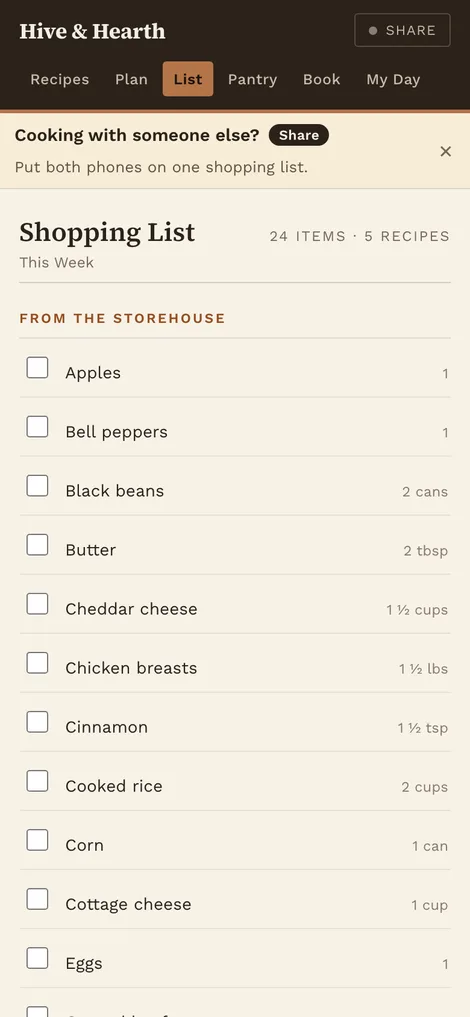
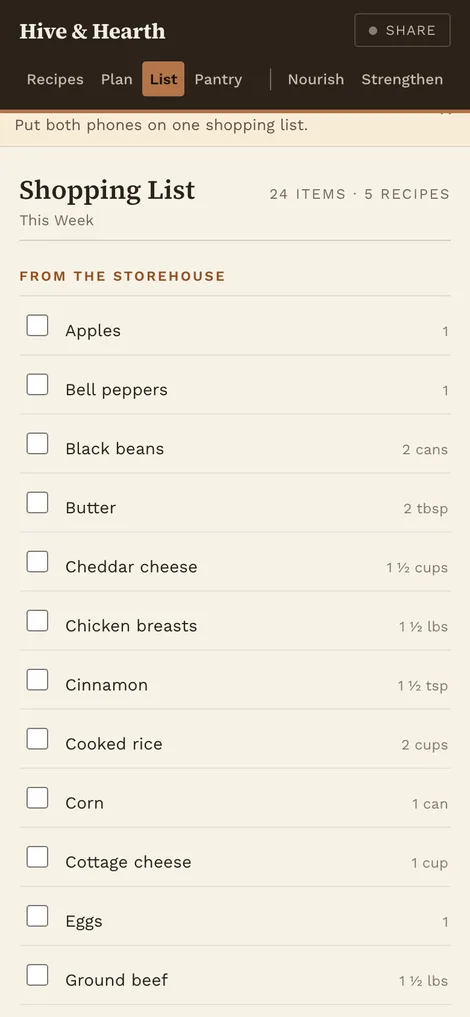
My Day: a recipe plate says what it weighs
Blake: "I loaded up my Cafe Rio pulled pork recipe and it showed for me
to eat a half a serving, but I had to click on the recipe, switch it to
grams and then open the calculator app on my phone to divide the meal
serving into grams for a half serving. Can you just show that on the main
food card?"

The weight that matters is the finished one, which only the cook can know
(pork loses about a third in the pot). So:

- Every recipe plate shows its weight on the figures row: an estimate
  from the raw ingredients, "~106 g" in a dashed box (mServeG: the eaten
  share of each line, divided by the servings).
- Tapping it opens a strip in the plate: "About 211 g a serving, from the
  raw ingredients. Weigh the finished batch once and this becomes exact."
  [Whole batch ___ g] makes 10 [Save].
- Saved, the box goes solid and exact (1,800 g for 10 = 90 g on a half),
  follows the portion as it changes, and says "Your batch: 1,800 g for 10
  servings, so 180 g each." with Weigh again.
- MBATCHG (bsc.macroBatchG, id -> { s: grams a serving, on }) syncs as
  simple part `bg`; in claimAll and the sign-out wipe.

Tests: the estimate matches the ingredient arithmetic and is marked; one
weigh-in makes the half-serving plate read 90 g, stored and in the payload
(red when the weighed value is ignored). Macros 856/0 and the other
thirteen suites 362/0 (the full run tripped the intermittent click timeout
once; macros re-ran clean).
[…]

diff --git a/src/app.js b/src/app.js
@@ -1171,7 +1171,7 @@
      only place that writes all of them at once. */
   function mClaimAll() {
     var now = Date.now();
-    ['t', 'pr', 'sl', 'mf', 'nv'].forEach(function (k) { MSTAMPS[k] = now; });
+    ['t', 'pr', 'sl', 'mf', 'nv', 'bg'].forEach(function (k) { MSTAMPS[k] = now; });
     [['d', MDAYS], ['dn', MDONE], ['sp', MSKIP], ['sn', MSEND], ['w', MWEIGHTS],
       ['tn', MTRAINED]].forEach(function (pair) {
       var part = pair[0];
@@ -1228,7 +1228,7 @@
     ['bsc.macroDays', 'bsc.macroWeights', 'bsc.myStamps', 'bsc.macroTargets',
       'bsc.macroProfile', 'bsc.macroSlots', 'bsc.myFoods', 'bsc.myOwner',
       'bsc.macroDone', 'bsc.macroSkip', 'bsc.macroSend', 'bsc.macroTrained',
-      'bsc.macroHush', 'bsc.macroIntake', 'bsc.macroDayT', 'bsc.macroNever'].forEach(function (k) {
+      'bsc.macroHush', 'bsc.macroIntake', 'bsc.macroDayT', 'bsc.macroNever', 'bsc.macroBatchG'].forEach(function (k) {
       try { localStorage.removeItem(k); } catch (e) { /* private mode */ }
     });
     Object.keys(MDAYS).forEach(function (k) { delete MDAYS[k]; });
@@ -1236,6 +1236,7 @@
     Object.keys(MINTAKE).forEach(function (k) { delete MINTAKE[k]; });
     Object.keys(MDAYT).forEach(function (k) { delete MDAYT[k]; });
     Object.keys(MNEVER).forEach(function (k) { delete MNEVER[k]; });
+    Object.keys(MBATCHG).forEach(function (k) { delete MBATCHG[k]; });
     Object.keys(MSTAMPS).forEach(function (k) { delete MSTAMPS[k]; });
     Object.keys(MDONE).forEach(function (k) { delete MDONE[k]; });
     Object.keys(MSKIP).forEach(function (k) { delete MSKIP[k]; });
@@ -1305,6 +1306,7 @@
   var MSYNC_SHAPE = {
     mf: mPlainObj,
     nv: mPlainObj,
+    bg: mPlainObj,
     t: function (v) { return mPlainObj(v) && mNum(v.p) && mNum(v.f) && mNum(v.c); },
     pr: mPlainObj,
     sl: function (v) { return mPlainObj(v) && Array.isArray(v.list); }
@@ -1312,7 +1314,7 @@
   function mSyncUnkey(e) { return String(e).replace(/_/g, '-'); }
 
   var MSYNC_SIMPLE = [
-    ['mf', 'bsc.myFoods'], ['t', 'bsc.macroTargets'], ['nv', 'bsc.macroNever'],
+    ['mf', 'bsc.myFoods'], ['t', 'bsc.macroTargets'], ['nv', 'bsc.macroNever'], ['bg', 'bsc.macroBatchG'],
     ['pr', 'bsc.macroProfile'], ['sl', 'bsc.macroSlots']
   ];
 
@@ -1493,6 +1495,13 @@
     });
     take('sl', 'bsc.macroSlots', function (v) {
       try { localStorage.setItem('bsc.macroSlots', JSON.stringify(v)); } catch (e) { /* private */ }
+    });
+    take('bg', 'bsc.macroBatchG', function (v) {
+      Object.keys(MBATCHG).forEach(function (k) { delete MBATCHG[k]; });
+      Object.keys(v).forEach(function (k) {
+        if (v[k] && v[k].s > 0) MBATCHG[k] = { s: Number(v[k].s), on: String(v[k].on || '') };
+      });
+      try { localStorage.setItem('bsc.macroBatchG', JSON.stringify(MBATCHG)); } catch (e) { /* private */ }
     });
     take('nv', 'bsc.macroNever', function (v) {
       Object.keys(MNEVER).forEach(function (k) { delete MNEVER[k]; });
@@ -2069,6 +2078,41 @@
     return {};
   })();
   function mNever(id) { return !!MNEVER[String(id)]; }
+
+  /* What one serving of a recipe weighs, finished. Blake, on the Cafe Rio
+     pork: the plate said half a serving and he had to open the recipe, switch
+     it to grams and do the division on his phone's calculator. The weight
+     that matters is the COOKED one, which only the cook can know — pork
+     loses about a third in the pot — so the plate shows an estimate from the
+     raw ingredients, marked "~", until the batch is weighed once. Then it is
+     exact for the way he makes it. Keyed recipe id -> { s: grams a serving,
+     on: day }. Synced as part `bg`. */
+  var MBATCHG = (function () {
+    try {
+      var v = JSON.parse(localStorage.getItem('bsc.macroBatchG'));
+      if (v && typeof v === 'object' && !Array.isArray(v)) return v;
+    } catch (e) { /* none yet */ }
+    return {};
+  })();
+  function mSetBatchG(id, perServing) {
+    var k = String(id);
+    if (perServing > 0) MBATCHG[k] = { s: Math.round(perServing * 10) / 10, on: todayKey() };
+    else delete MBATCHG[k];
+    mStamp('bg');
+    try { localStorage.setItem('bsc.macroBatchG', JSON.stringify(MBATCHG)); }
+    catch (e) { /* this session only */ }
+  }
+  /* { g: grams a serving, est: true when it is the ingredient estimate }, or
+     null when there is nothing to go on. The estimate counts what the recipe
+     says is eaten of each line (the dredge's third, the frying oil's share). */
+  function mServeG(r) {
+    if (!r || r.food) return null;
+    var w = MBATCHG[String(r.id)];
+    if (w && w.s > 0) return { g: w.s, est: false };
+    var tot = 0;
+    (r.ingp || []).forEach(function (x) { tot += (Number(x.g) || 0) * (x.pe > 0 ? x.pe : 1); });
+    return tot > 0 ? { g: tot / (r.servN || 1), est: true } : null;
+  }
   function mSetNever(id, on) {
     var k = String(id);
     if (on) MNEVER[k] = todayKey(); else delete MNEVER[k];
@@ -2196,6 +2240,26 @@
   }
   /* The strip the chip opens, inside the plate, in the green-edged style of
      the app's other in-meal cards. */
+  function mBatchStrip(r, it, tag) {
+    if (S.mBatchOpen !== tag) return '';
+    var sg = mServeG(r);
+    if (!sg) return '';
+    var n = r.servN || 1;
+    var fmt = function (g) { return Math.round(g).toLocaleString(); };
+    return '<div class="mwhy-strip mbatch-strip no-print">' +
+      (sg.est
+        ? '<p>About ' + fmt(sg.g) + ' g a serving, from the raw ingredients. Weigh the finished ' +
+          (n > 1 ? 'batch' : 'dish') + ' once and this becomes exact.</p>' +
+          '<span class="mbatch-in"><label>Whole batch <input type="text" inputmode="decimal" id="mBatchIn" ' +
+            'maxlength="6" autocomplete="off" aria-label="Finished batch weight in grams"> g</label>' +
+            '<span class="mbatch-n">makes ' + n + '</span>' +
+            '<button class="btn-primary" data-mbsave="' + tag + '">Save</button></span>'
+        : '<p>Your batch: ' + fmt(sg.g * n) + ' g for ' + n + (n === 1 ? ' serving' : ' servings') +
+          ', so ' + fmt(sg.g) + ' g each.</p>' +
+          '<span class="mwhy-acts"><button class="ghost" data-mbforget="' + tag + '">Weigh again</button></span>') +
+    '</div>';
+  }
+
   function mWhyStrip(it, tag) {
     var w = mWhyOf(it);
     if (!w || S.mWhyOpen !== tag) return '';
@@ -5176,6 +5240,7 @@
             '</span>' +
           '</div>' +
           mWhyStrip(it, tag) +
+          mBatchStrip(r, it, tag) +
           /* What it is in the kitchen, and what it costs you.
            *
              The weight leads, because Blake weighs: "sometimes it's just
@@ -5192,7 +5257,16 @@
              strip it opens sitting above, under the name. */
           '<div class="mitem-r2">' +
             mWhyChip(it, tag) +
-            (port.detail ? '<span class="mitem-uom">' + esc(port.detail) + '</span>' : '') +
+            (function () {
+              /* A recipe's plate says what it weighs: the thing you put on
+                 the scale. A tap weighs the batch or says how it was got. */
+              var sg = mServeG(r);
+              if (!sg) return port.detail ? '<span class="mitem-uom">' + esc(port.detail) + '</span>' : '';
+              return '<button class="mitem-uom mitem-bw' + (sg.est ? ' est' : '') + '" data-mbatch="' + tag +
+                '" aria-expanded="' + (S.mBatchOpen === tag ? 'true' : 'false') + '" aria-label="' +
+                (sg.est ? 'About ' : '') + Math.round(sg.g * it.x) + ' grams on this plate">' +
+                (sg.est ? '~' : '') + Math.round(sg.g * it.x) + ' g</button>';
+            })() +
             '<span class="mitem-mac">' + mMacLine(r, it.x) + '</span>' +
             mSaltChip(r, it.x) +
           '</div>' +
@@ -13738,7 +13812,7 @@
     'data-poff', 'data-week', 'data-neww', 'data-mult', 'data-drop', 'data-ed', 'data-tab',
     'data-mslot', 'data-meat', 'data-mstep', 'data-mdel', 'data-mpick', 'data-mpout', 'data-mtarg', 'data-mlock', 'data-mpin', 'data-mfav', 'data-mtry', 'data-mdot', 'data-medit', 'data-mskip', 'data-msend',
     'data-mtsex', 'data-mtgoal', 'data-mtext', 'data-mtact', 'data-mtwk', 'data-mtedit', 'data-mtmfold', 'data-mtsec', 'data-mtfree', 'data-mtuse', 'data-mtw', 'data-mysync', 'data-mpnew', 'data-mplook', 'data-nf', 'data-nfpick', 'data-scan',
-    'data-mmore', 'data-fppick', 'data-fpmore', 'data-nfcode', 'data-mpmode', 'data-mpshelf', 'data-mpbasket', 'data-mbstep', 'data-mpdone', 'data-mweek', 'data-mfold', 'data-mtrain', 'data-mtdee', 'data-mpfav', 'data-mline', 'data-mchart', 'data-mchartopen', 'data-mpslot', 'data-mbal', 'data-mkeep', 'data-mkdo', 'data-mfood', 'data-mpills', 'data-mtrained', 'data-mwhy', 'data-mdo', 'data-mallow'];
+    'data-mmore', 'data-fppick', 'data-fpmore', 'data-nfcode', 'data-mpmode', 'data-mpshelf', 'data-mpbasket', 'data-mbstep', 'data-mpdone', 'data-mweek', 'data-mfold', 'data-mtrain', 'data-mtdee', 'data-mpfav', 'data-mline', 'data-mchart', 'data-mchartopen', 'data-mpslot', 'data-mbal', 'data-mkeep', 'data-mkdo', 'data-mfood', 'data-mpills', 'data-mtrained', 'data-mwhy', 'data-mdo', 'data-mallow', 'data-mbatch', 'data-mbsave', 'data-mbforget'];
 
   function focusKey(el) {
     if (!el || el === document.body || !el.getAttribute) return null;
@@ -15080,6 +15154,31 @@
           it.x = mStepX(BY_ID[it.id], it.x, sp[2] === 'up' ? 1 : -1);
         });
         keepingFocus(renderMacros);
+        return;
+      }
+      var bw = e.target.closest('[data-mbatch]');
+      if (bw) {
+        S.mBatchOpen = S.mBatchOpen === bw.dataset.mbatch ? '' : bw.dataset.mbatch;
+        renderMacros();
+        if (S.mBatchOpen) { var bi = $('mBatchIn'); if (bi) bi.focus(); }
+        return;
+      }
+      var bsv = e.target.closest('[data-mbsave], [data-mbforget]');
+      if (bsv) {
+        var bq = (bsv.dataset.mbsave || bsv.dataset.mbforget).split(':');
+        var bit = (mDay(mViewKey())[bq[0]] || [])[Number(bq[1])];
+        var brr = bit && BY_ID[bit.id];
+        if (!brr) return;
+        if (bsv.dataset.mbforget) {
+          mSetBatchG(brr.id, 0);             // back to the estimate, box open for a new weight
+          renderMacros();
+          var bi2 = $('mBatchIn'); if (bi2) bi2.focus();
+          return;
+        }
+        var bv = Number(String(($('mBatchIn') || {}).value || '').replace(/,/g, '').trim());
+        if (!(bv > 0) || bv > 50000) { var bi3 = $('mBatchIn'); if (bi3) bi3.focus(); return; }
+        mSetBatchG(brr.id, bv / (brr.servN || 1));
+        renderMacros();
         return;
       }
       var why = e.target.closest('[data-mwhy]');

diff --git a/tests/macros.test.js b/tests/macros.test.js
@@ -13367,6 +13367,38 @@ module.exports = {
       t.ok('sweep works on tomorrow, and keeps what is locked or pinned',
         canSweep && swept.b.join() === 'f:whey' && swept.l.join() === 'f:chicken_breast' && !(swept.d || []).length,
         JSON.stringify({ canSweep, swept }));
+
+      /* A recipe plate says what it weighs. Blake, on the Cafe Rio pork: half
+         a serving meant opening the recipe, switching to grams and dividing
+         on a calculator. An estimate from the raw ingredients until the
+         batch is weighed once; then exact, remembered, synced. */
+      const pork = await np.evaluate(() => window.RECIPES.find((r) => /Barbacoa, Cafe Rio/.test(r.name)));
+      await np.evaluate(([k, id]) => {
+        localStorage.clear();
+        localStorage.setItem('bsc.macroTargets', JSON.stringify({ p: 180, f: 60, c: 170 }));
+        localStorage.setItem('bsc.macroDays', JSON.stringify({ [k]: { l: [{ id, x: 0.5, eaten: 0 }] } }));
+      }, [today, pork.id]);
+      await np.reload();
+      await np.click('.tab[data-view="macros"]');
+      await np.waitForTimeout(300);
+      await openDay(np);
+      const est = await np.evaluate(() => { const b = document.querySelector('[data-mbatch="l:0"]');
+        return b ? { t: b.textContent.trim(), est: b.classList.contains('est') } : null; });
+      const rawHalf = Math.round(pork.ingp.reduce((a, x) => a + x.g * (x.pe > 0 ? x.pe : 1), 0) / pork.servN * 0.5);
+      t.ok('a recipe plate shows its weight, marked as an estimate until weighed',
+        est && est.est && est.t === '~' + rawHalf + ' g', JSON.stringify({ est, rawHalf }));
+      await np.click('[data-mbatch="l:0"]');
+      await np.waitForTimeout(200);
+      await np.fill('#mBatchIn', '1800');
+      await np.click('[data-mbsave="l:0"]');
+      await np.waitForTimeout(250);
+      const weighed = await np.evaluate((id) => { const b = document.querySelector('[data-mbatch="l:0"]');
+        return { t: b && b.textContent.trim(), est: b && b.classList.contains('est'),
+          stored: JSON.parse(localStorage.getItem('bsc.macroBatchG') || '{}')[String(id)],
+          sent: !!(window.__macroLab.payload().bg || {}).v }; }, pork.id);
+      t.ok('weighing the batch once makes it exact: 1,800 g for 10 is 90 g on a half-serving plate',
+        weighed.t === '90 g' && !weighed.est && weighed.stored && weighed.stored.s === 180 && weighed.sent,
+        JSON.stringify(weighed));
       await np.context().close();
     }
   },

diff --git a/sw.js b/sw.js
@@ -21,22 +21,22 @@
 
 /* Bump this when the shell changes. The old cache is deleted on activate, which
    is what gets a phone that is holding a previous build onto the current one. */
-var CACHE = 'storehouse-v491';
+var CACHE = 'storehouse-v492';
 
 /* The app itself. If any one of these does not arrive, the install fails and
    the phone keeps the worker and the cache it already had. */
 var CORE = [
   './',
   './index.html',
-  './src/style.css?v=491',
-  './src/config.js?v=491',
-  './src/sync.js?v=491',
-  './src/train.js?v=491',
-  './src/app.js?v=491',
-  './data/recipes.js?v=491',
-  './data/nutrition.js?v=491',
-  './data/art.js?v=491',
-  './data/qr.js?v=491',
+  './src/style.css?v=492',
+  './src/config.js?v=492',
+  './src/sync.js?v=492',
+  './src/train.js?v=492',
+  './src/app.js?v=492',
+  './data/recipes.js?v=492',
+  './data/nutrition.js?v=492',
+  './data/art.js?v=492',
+  './data/qr.js?v=492',
   './manifest.webmanifest'
 ];
 
@@ -95,7 +95,7 @@ self.addEventListener('install', function (e) {
            through the browser's own HTTP cache. So a new service worker could
            seed its brand-new cache with files up to ten minutes old, and then
            serve them cache-first for as long as that cache lived. The
-           versioned URLs were never at risk — ?v=491 is a URL the HTTP cache
+           versioned URLs were never at risk — ?v=492 is a URL the HTTP cache
            has never seen — but data/recipes.js carried no version, so the one
            file that changes every time recipes are added was the one file that
            could arrive stale and stay that way. Both halves are fixed: the

diff --git a/index.html b/index.html
@@ -14,7 +14,7 @@
 <!-- the typefaces are in this repository; nothing is fetched from anywhere else -->
 <link rel="preload" href="fonts/source-serif-4-latin-wght-normal.woff2" as="font" type="font/woff2" crossorigin>
 <link rel="preload" href="fonts/work-sans-latin-wght-normal.woff2" as="font" type="font/woff2" crossorigin>
-<link rel="stylesheet" href="src/style.css?v=491">
+<link rel="stylesheet" href="src/style.css?v=492">
 </head>
 <body>
 
@@ -413,16 +413,16 @@
 <div id="trainRoot"></div>
 <div id="dialogRoot"></div>
 
-<script src="data/recipes.js?v=491"></script>
-<script src="data/nutrition.js?v=491"></script>
-<script src="data/art.js?v=491"></script>
-<script src="data/qr.js?v=491"></script>
-<script src="src/config.js?v=491"></script>
+<script src="data/recipes.js?v=492"></script>
+<script src="data/nutrition.js?v=492"></script>
+<script src="data/art.js?v=492"></script>
+<script src="data/qr.js?v=492"></script>
+<script src="src/config.js?v=492"></script>
 <!-- ?v= so a phone that has the old file cached fetches this one -->
-<script src="src/sync.js?v=491"></script>
+<script src="src/sync.js?v=492"></script>
 <!-- before app.js, which calls into it while it boots -->
-<script src="src/train.js?v=491"></script>
-<script src="src/app.js?v=491"></script>
+<script src="src/train.js?v=492"></script>
+<script src="src/app.js?v=492"></script>
 <script>
 /* Keeps the app openable with no signal. Needs a real server, so it is skipped
    when the page is opened straight off the disk.

diff --git a/src/style.css b/src/style.css
@@ -5265,3 +5265,13 @@ span.tr-fm { cursor: default; }
 .tr-rdgo b { font-size: 14.5px; }
 .tr-rdgo small { font-size: 11px; line-height: 1.3; text-align: center; opacity: 0.85; }
 .tr-rdr .tr-acts { margin: 0 12px 10px; }
+/* A recipe plate's weight, as a button: tap to weigh the batch. "~" and a
+   dotted edge say it is the ingredient estimate; a solid box, weighed. */
+button.mitem-uom.mitem-bw { font: inherit; cursor: pointer; color: var(--ink); background: none; }
+button.mitem-uom.mitem-bw.est { border-style: dashed; color: var(--muted-2); }
+.mbatch-strip .mbatch-in { display: flex; flex-wrap: wrap; align-items: center; gap: 8px; flex: 1 1 100%; }
+.mbatch-in label { display: flex; align-items: center; gap: 6px; font-size: 13px; }
+.mbatch-in input { width: 84px; font: inherit; font-size: 16px; text-align: right;
+  border: 1px solid var(--line-firm); border-radius: 5px; padding: 5px 8px; background: var(--paper); color: var(--ink); }
+.mbatch-n { font-size: 12.5px; color: var(--muted); }
+.mbatch-in .btn-primary { margin-left: auto; padding: 6px 14px; font-size: 13px; }
